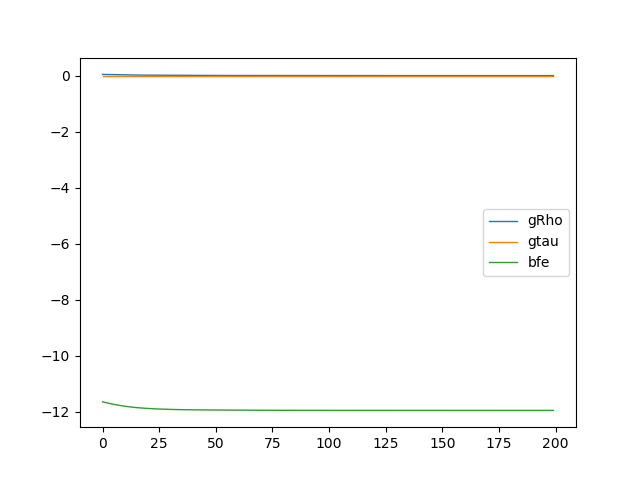
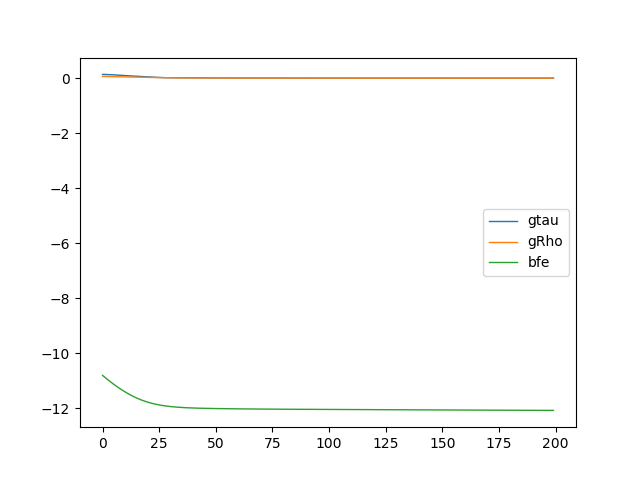
try un-uniform belief initialization in smoke example; still recover nearly symmetric beliefs at convergence (good)

diff --git a/osi/smoke_example.py b/osi/smoke_example.py
@@ -70,10 +70,10 @@ else:
     shared_dstates = -1
 
 if shared_dstates > 0:  # all discrete rvs have the same number of states
-    Rho = tf.Variable(tf.zeros([g.Nd, K, shared_dstates], dtype=dtype), trainable=True,
-                      name='Rho')  # dnode categorical prob logits
-    # Rho = tf.Variable(tf.random_normal([g.Nd, K, shared_dstates], dtype=dtype), trainable=True,
+    # Rho = tf.Variable(tf.zeros([g.Nd, K, shared_dstates], dtype=dtype), trainable=True,
     #                   name='Rho')  # dnode categorical prob logits
+    Rho = tf.Variable(tf.random_normal([g.Nd, K, shared_dstates], dtype=dtype), trainable=True,
+                      name='Rho')  # dnode categorical prob logits
     Pi = tf.nn.softmax(Rho, name='Pi')
 else:  # general case when each dnode can have different num states
     Rho = [tf.Variable(tf.zeros([K, rv.dstates], dtype=dtype), trainable=True, name='Rho_%d' % i) for (i, rv) in
@@ -121,7 +121,7 @@ else:
 
 print('set up training')
 # train
-lr = 0.01
+lr = 0.02
 its = 200
 # optimizer = tf.train.GradientDescentOptimizer(lr)
 optimizer = tf.train.AdamOptimizer(lr)
